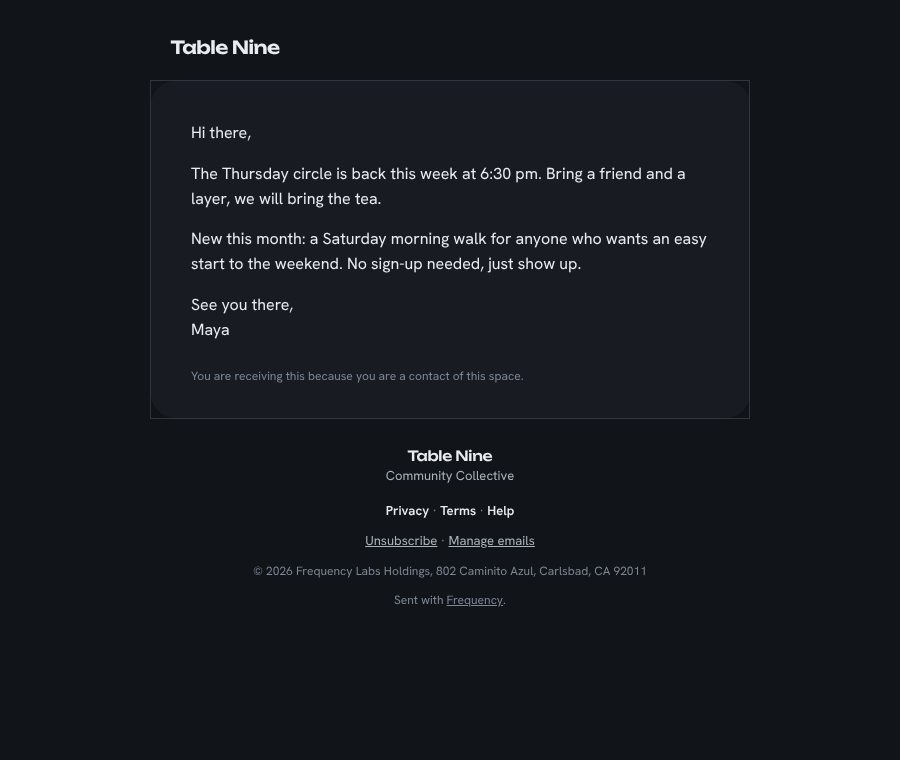
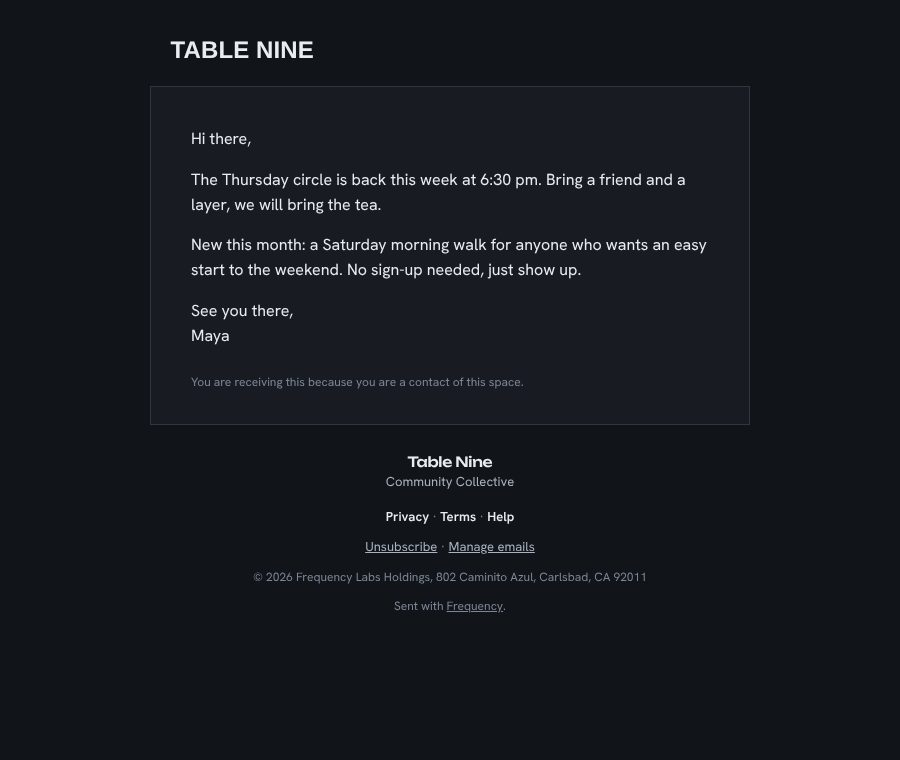
Bold: chamfered hero photo, square email card, photo shown in the theme page website picture
The Menswork hero photo had square corners (the design cuts every image in the 20px chamfer with an accent triangle). Bold emails now get a square card and condensed caps wordmark. The /themes/bold website picture shows the headline above the photo as the design does.

Claude-Session: https://claude.ai/code/session_012BMmZTua5tanhv1qWDFWtP

diff --git a/lib/email-studio/shell.ts b/lib/email-studio/shell.ts
@@ -12,6 +12,7 @@ import { palette } from '@/lib/theme/palette'
 
 const FONT_STACK = emailType.sans
 const DISPLAY_STACK = emailType.display
+const SQUARE_DISPLAY = "'Sofia Sans Extra Condensed','Arial Narrow',Impact,sans-serif"
 
 /** The sender BRAND an email document is themed with. Every field optional so a default Frequency-branded
  *  shell renders with no config; the send agent can pass a per-Space brand later. */
@@ -28,6 +29,9 @@ export interface EmailBrand {
   baseUrl?: string
   /** Palette override (defaults to DEFAULT_EMAIL_COLORS). */
   colors?: EmailColors
+  /** Square corners and the condensed caps wordmark: Bold's email (the Bold design system: radius 0, one chamfer, Sofia Sans Extra Condensed).
+   *  A mail client cannot cut a 60 degree corner, so the card is plain square. Faces fall back to Arial Narrow and Impact where a client drops web fonts. */
+  square?: boolean
 }
 
 const DEFAULT_BASE_URL = 'https://frequencylocal.com'
@@ -80,7 +84,7 @@ function header(brand: EmailBrand, colors: EmailColors, baseUrl: string): string
   const alt = brand.wordmark ?? `Frequency, ${DEFAULT_TAGLINE}`
   const inner = logoUrl
     ? `<a href="${escapeHtml(baseUrl)}" style="text-decoration:none;"><img src="${escapeHtml(logoUrl)}" alt="${escapeHtml(alt)}" width="${brand.logoUrl ? 168 : emailType.wordmark.width}" height="${brand.logoUrl ? 30 : emailType.wordmark.height}" data-fq="fq-logo" style="display:block;border:0;width:${brand.logoUrl ? 168 : emailType.wordmark.width}px;height:auto;font-family:${DISPLAY_STACK};font-size:16px;font-weight:600;letter-spacing:0.02em;text-transform:uppercase;color:${colors.heading ?? colors.text};text-decoration:none;"></a>`
-    : `<a href="${escapeHtml(baseUrl)}" data-fq="fq-logo" style="font-family:${DISPLAY_STACK};font-size:18px;font-weight:600;letter-spacing:-0.03em;color:${colors.heading ?? colors.text};text-decoration:none;">${escapeHtml(brand.wordmark ?? 'Frequency')}</a>`
+    : `<a href="${escapeHtml(baseUrl)}" data-fq="fq-logo" style="font-family:${brand.square ? SQUARE_DISPLAY : DISPLAY_STACK};font-size:${brand.square ? 24 : 18}px;font-weight:${brand.square ? 800 : 600};letter-spacing:${brand.square ? '0.005em' : '-0.03em'};${brand.square ? 'text-transform:uppercase;' : ''}color:${colors.heading ?? colors.text};text-decoration:none;">${escapeHtml(brand.wordmark ?? 'Frequency')}</a>`
   const tagline = brand.logoUrl || !brand.wordmark ? '' : (brand.tagline ?? '')
   const tag = tagline
     ? `<p data-fq="fq-muted" style="font-family:${DISPLAY_STACK};font-size:11px;font-weight:500;color:${colors.subtle};letter-spacing:0.14em;text-transform:uppercase;line-height:1;margin:6px 0 0;">${escapeHtml(tagline)}</p>`
@@ -215,7 +219,7 @@ ${night}
       <!--[if mso]><table role="presentation" width="600" cellpadding="0" cellspacing="0" border="0"><tr><td><![endif]-->
       <table role="presentation" width="100%" cellpadding="0" cellspacing="0" border="0" style="width:100%;max-width:600px;border-collapse:collapse;">
         ${hero ? '' : `<tr><td data-fq="fq-head" style="padding:0 20px 22px;text-align:left;">${header(brand, colors, baseUrl)}</td></tr>`}
-        <tr><td data-fq="fq-card" style="background:${colors.surface};border:1px solid ${colors.border};border-radius:24px;padding:0;overflow:hidden;font-family:${FONT_STACK};${emailType.cardShadow ? `box-shadow:${emailType.cardShadow};` : ''}">
+        <tr><td data-fq="fq-card" style="background:${colors.surface};border:1px solid ${colors.border};border-radius:${brand.square ? 0 : 24}px;padding:0;overflow:hidden;font-family:${FONT_STACK};${emailType.cardShadow ? `box-shadow:${emailType.cardShadow};` : ''}">
           <table role="presentation" width="100%" cellpadding="0" cellspacing="0" border="0" style="width:100%;border-collapse:collapse;">
             ${hero}
             <tr><td data-fq="fq-body" style="padding:40px 40px 32px;font-family:${FONT_STACK};">

diff --git a/scripts/render/theme-pages-shots.render.tsx b/scripts/render/theme-pages-shots.render.tsx
@@ -81,6 +81,8 @@ it('renders the Bold and Wildheart surfaces', async () => {
     const home = r.snapshot.pages.find((p) => p.slug === 'home' || p.slug === '') ?? r.snapshot.pages[0]!
     for (const b of home.doc.content as { type: string; props: Record<string, unknown> }[]) {
       if (b.type === 'ServicesHero' || b.type === 'Hero') b.props.image = t.photo
+      // Bold's kit hero is text-only; the design puts the headline above a full-width photo, so the picture shows the photo variant.
+      if (b.type === 'PhotoHero' && t.id === 'bold') Object.assign(b.props, { variant: 'image', image: t.photo, alt: 'People gathered on a beach at sunset', height: 'medium', display: 'below' })
     }
     const links = { origin: 'https://example.com', slug: 'table-nine', siteBase: '', pages: ['home'], contactHref: null, bookHref: null, email: null }
     const body = h(WebsiteDocument as never, { doc: home.doc, theme: t.ed, config, live: { events: [], circles: [], journeys: [] }, links, origin: links.origin, title: 'Home', metadata: { space: { name: 'Table Nine', faqs: [] } } } as never)

diff --git a/lib/spaces/email-colors.ts b/lib/spaces/email-colors.ts
@@ -21,6 +21,7 @@
 import { DEFAULT_EMAIL_COLORS, type EmailColors } from '@/lib/email-studio/render'
 import type { EmailBrand } from '@/lib/email-studio/shell'
 import { emailSurface } from '@/lib/theme/surface'
+import { readMegaTheme } from '@/lib/theme/mega-theme'
 import type { ThemeSurface } from '@/lib/theme/surface-vars'
 
 /** A 6-digit hex (`#rrggbb`). The only shape the brand color picker emits and the only shape this module
@@ -219,5 +220,7 @@ export function spaceEmailBrand(space: SpaceEmailBrandInput): EmailBrand {
     colors: spaceEmailColors(space),
     wordmark: space.brandName ?? space.name,
     logoUrl,
+    // Bold's email has square corners (its design: radius 0; no clip-path survives a mail client).
+    ...(readMegaTheme(space.preferences).theme === 'bold' ? { square: true } : {}),
   }
 }

diff --git a/components/sites/menswork-page-css.ts b/components/sites/menswork-page-css.ts
@@ -75,6 +75,7 @@ ${M} .mw-hero-stack .mw-hero-copy .mw-display{font-size:clamp(3.75rem,8.5vw,7.5r
 @media (max-width:639px){${M} .mw-hero .mw-hero-copy .mw-display{font-size:clamp(2.25rem,10vw,3.75rem)}}
 ${M} .mw-hero-photo{width:100%;max-width:1248px;margin:clamp(40px,5vw,48px) auto 0;height:clamp(280px,38vw,480px)}
 ${M} .mw-hero-photo+*{margin-top:0}
+${M} .mw-hero-photo::after{content:"";position:absolute;right:0;bottom:0;width:40px;height:34.64px;background:var(--color-primary);clip-path:polygon(0 100%,100% 100%,50% 0);pointer-events:none}
 
 ${M} .mw-head{display:grid;grid-template-columns:repeat(auto-fit,minmax(min(100%,380px),1fr));gap:clamp(24px,5vw,48px);align-items:start}
 ${M} .mw-head-card{padding:clamp(24px,4vw,40px)}

diff --git a/lib/spaces/email-colors.test.ts b/lib/spaces/email-colors.test.ts
@@ -164,3 +164,13 @@ describe('a Space on the Midnight theme', () => {
     expect(spaceEmailColors({ preferences: { megaTheme: { theme: 'frequency' } } }).canvas).toBe(DEFAULT_EMAIL_COLORS.canvas)
   })
 })
+
+describe('Bold email shape', () => {
+  it('a Bold Space gets square corners and others keep the round card', async () => {
+    const { spaceEmailBrand } = await import('./email-colors')
+    const bold = spaceEmailBrand({ name: 'T', preferences: { megaTheme: { theme: 'bold' } } })
+    const other = spaceEmailBrand({ name: 'T', preferences: { megaTheme: { theme: 'wildheart' } } })
+    expect(bold.square).toBe(true)
+    expect(other.square).toBeUndefined()
+  })
+})

diff --git a/components/sites/menswork-page.tsx b/components/sites/menswork-page.tsx
@@ -279,7 +279,7 @@ function Hero({ p, ctx, first }: { p: Props; ctx: Ctx; first: boolean }) {
         {copy}
         {layout === 'split' && <Photo v={p.image} alt={str(p.alt)} className="mw-chamfer" eager />}
       </div>
-      {layout === 'stack' && <Photo v={p.image ?? p.imageUrl} alt={str(p.alt)} className="mw-hero-photo" eager />}
+      {layout === 'stack' && <Photo v={p.image ?? p.imageUrl} alt={str(p.alt)} className="mw-hero-photo mw-chamfer" eager />}
     </section>
   )
 }
